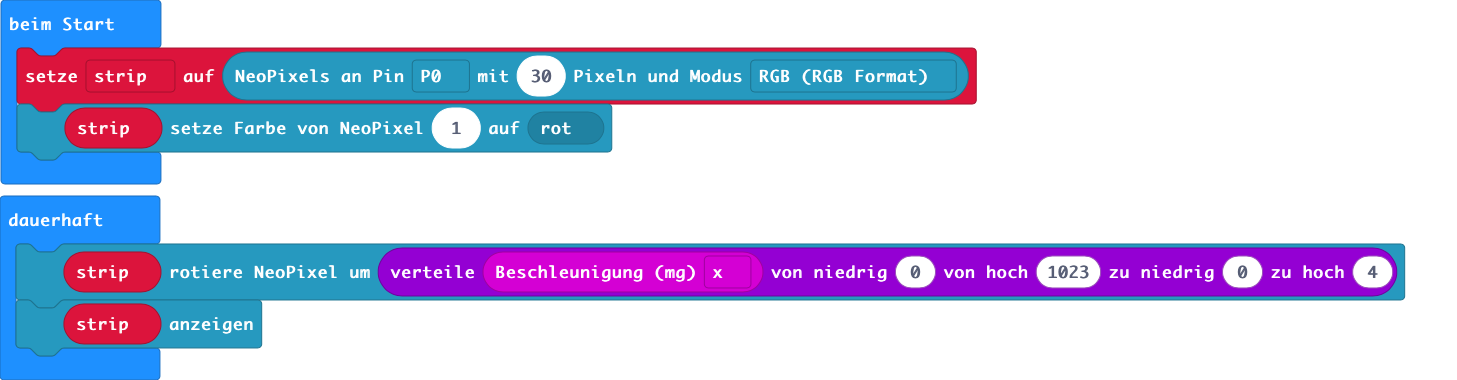
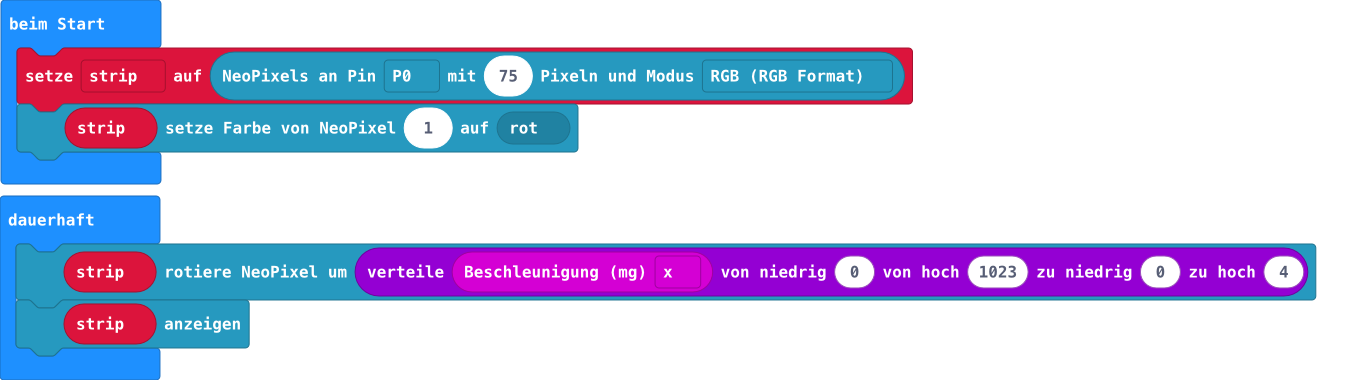
Aktualisiere main.blocks, main.ts

diff --git a/main.ts b/main.ts
@@ -1,4 +1,4 @@
-let strip = neopixel.create(DigitalPin.P0, 30, NeoPixelMode.RGB_RGB)
+let strip = neopixel.create(DigitalPin.P0, 75, NeoPixelMode.RGB_RGB)
 strip.setPixelColor(1, neopixel.colors(NeoPixelColors.Red))
 basic.forever(function () {
     strip.rotate(Math.map(input.acceleration(Dimension.X), 0, 1023, 0, 4))
